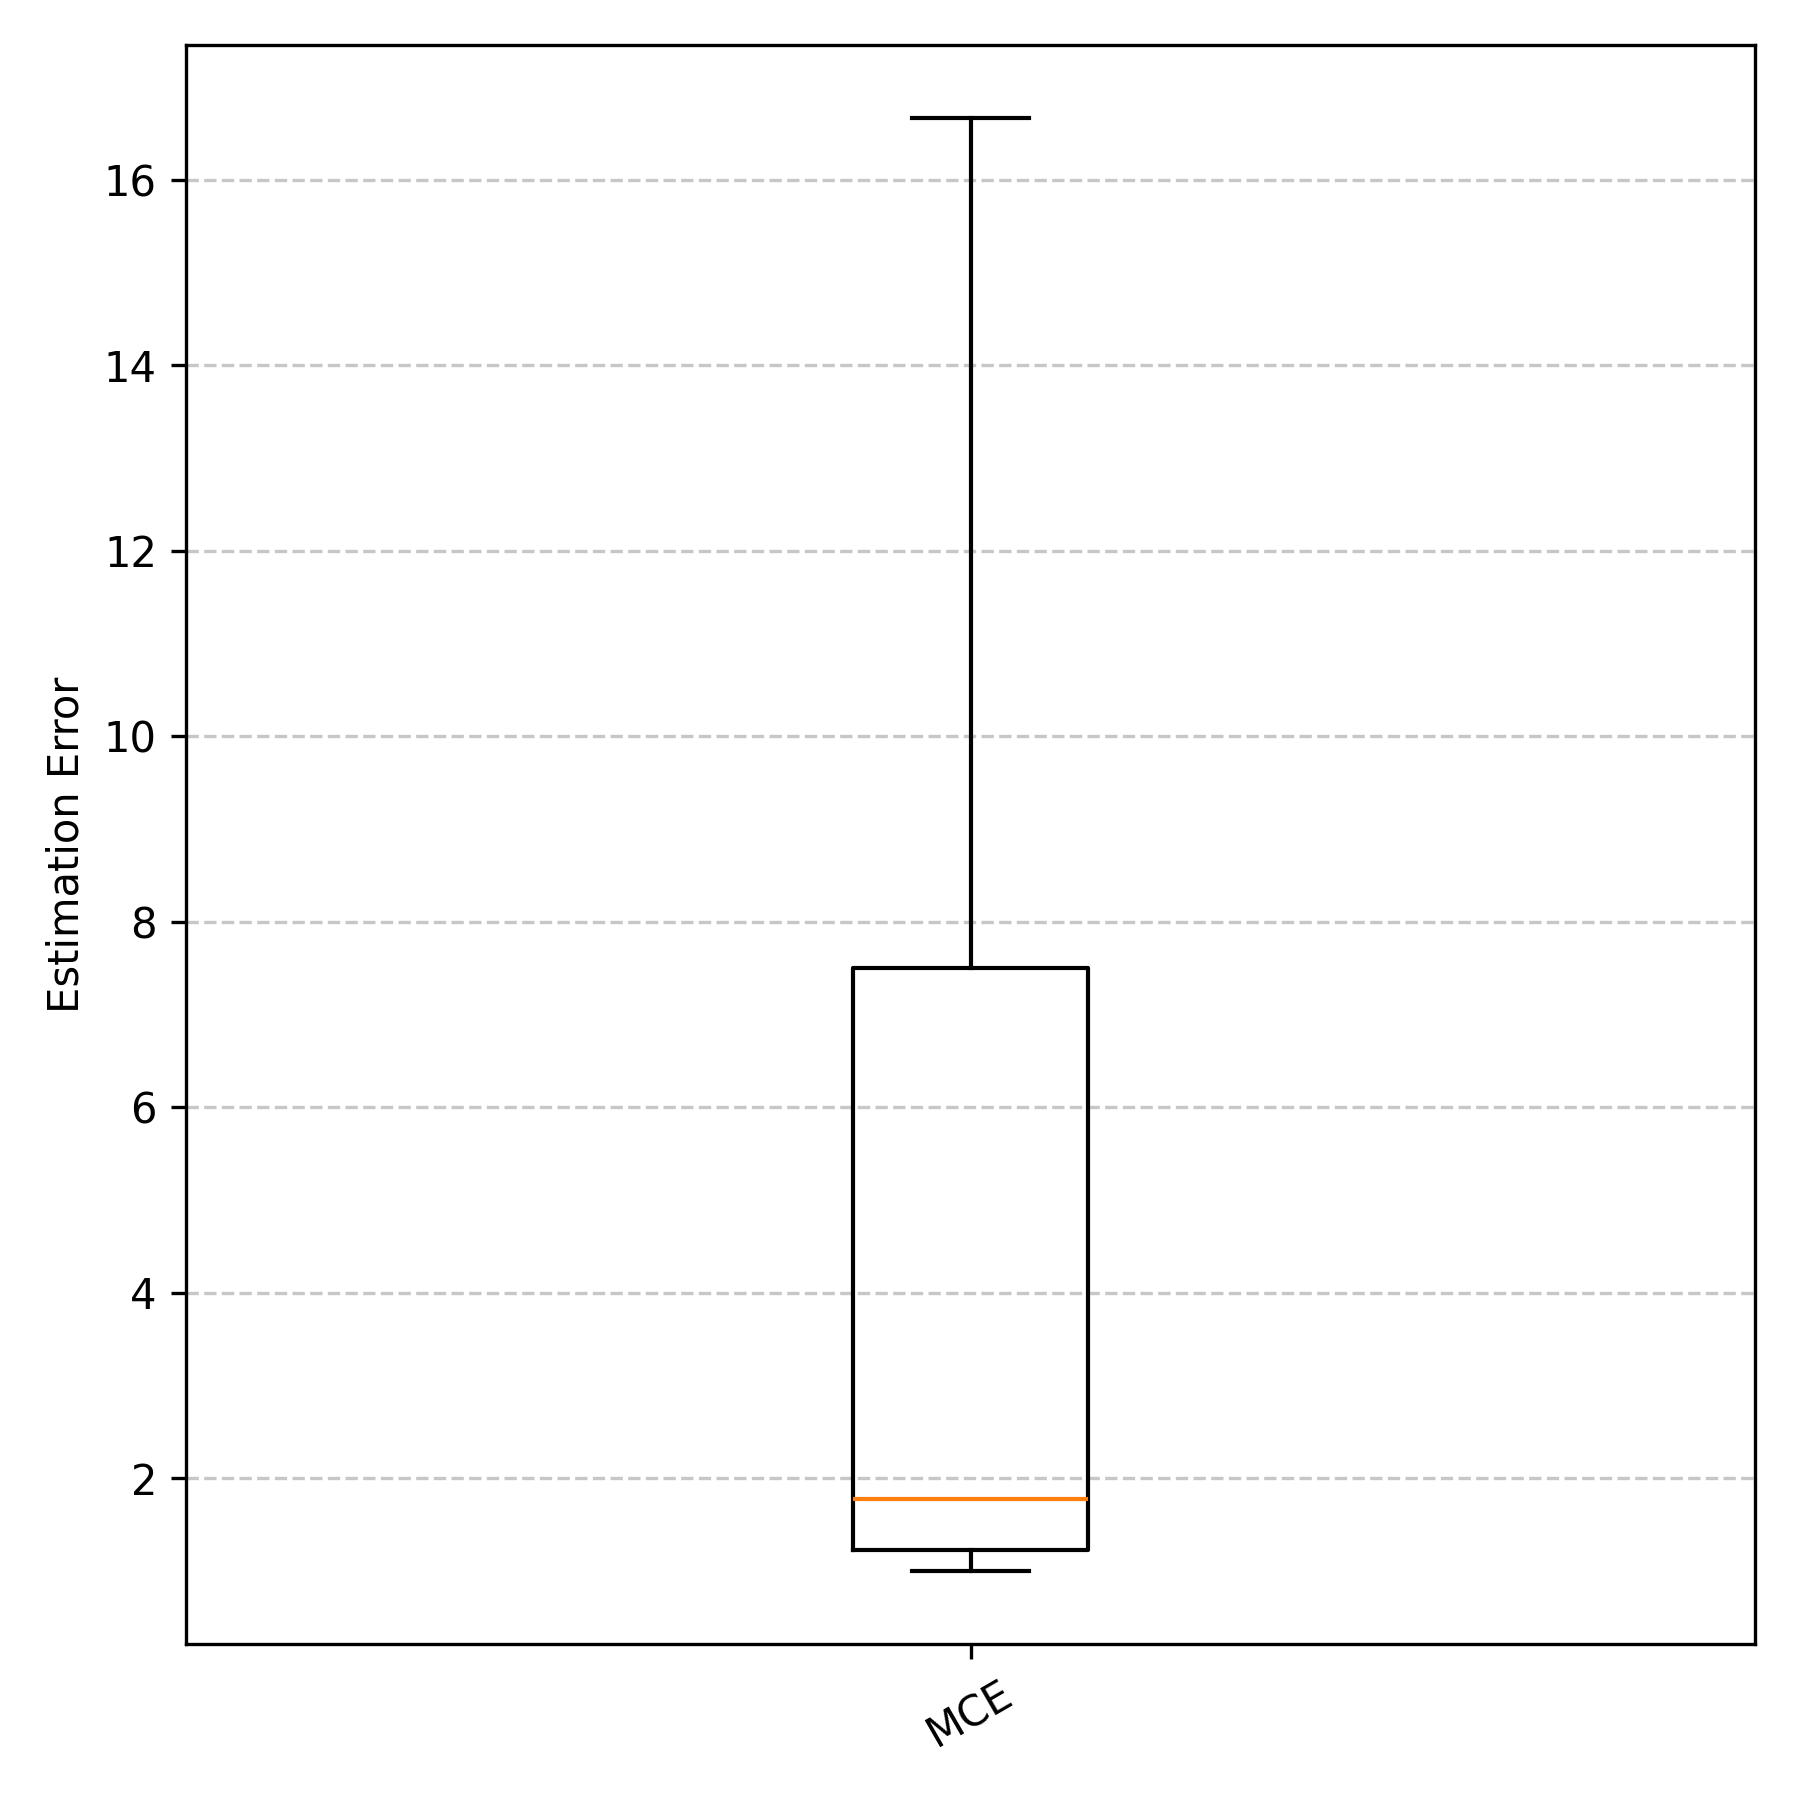
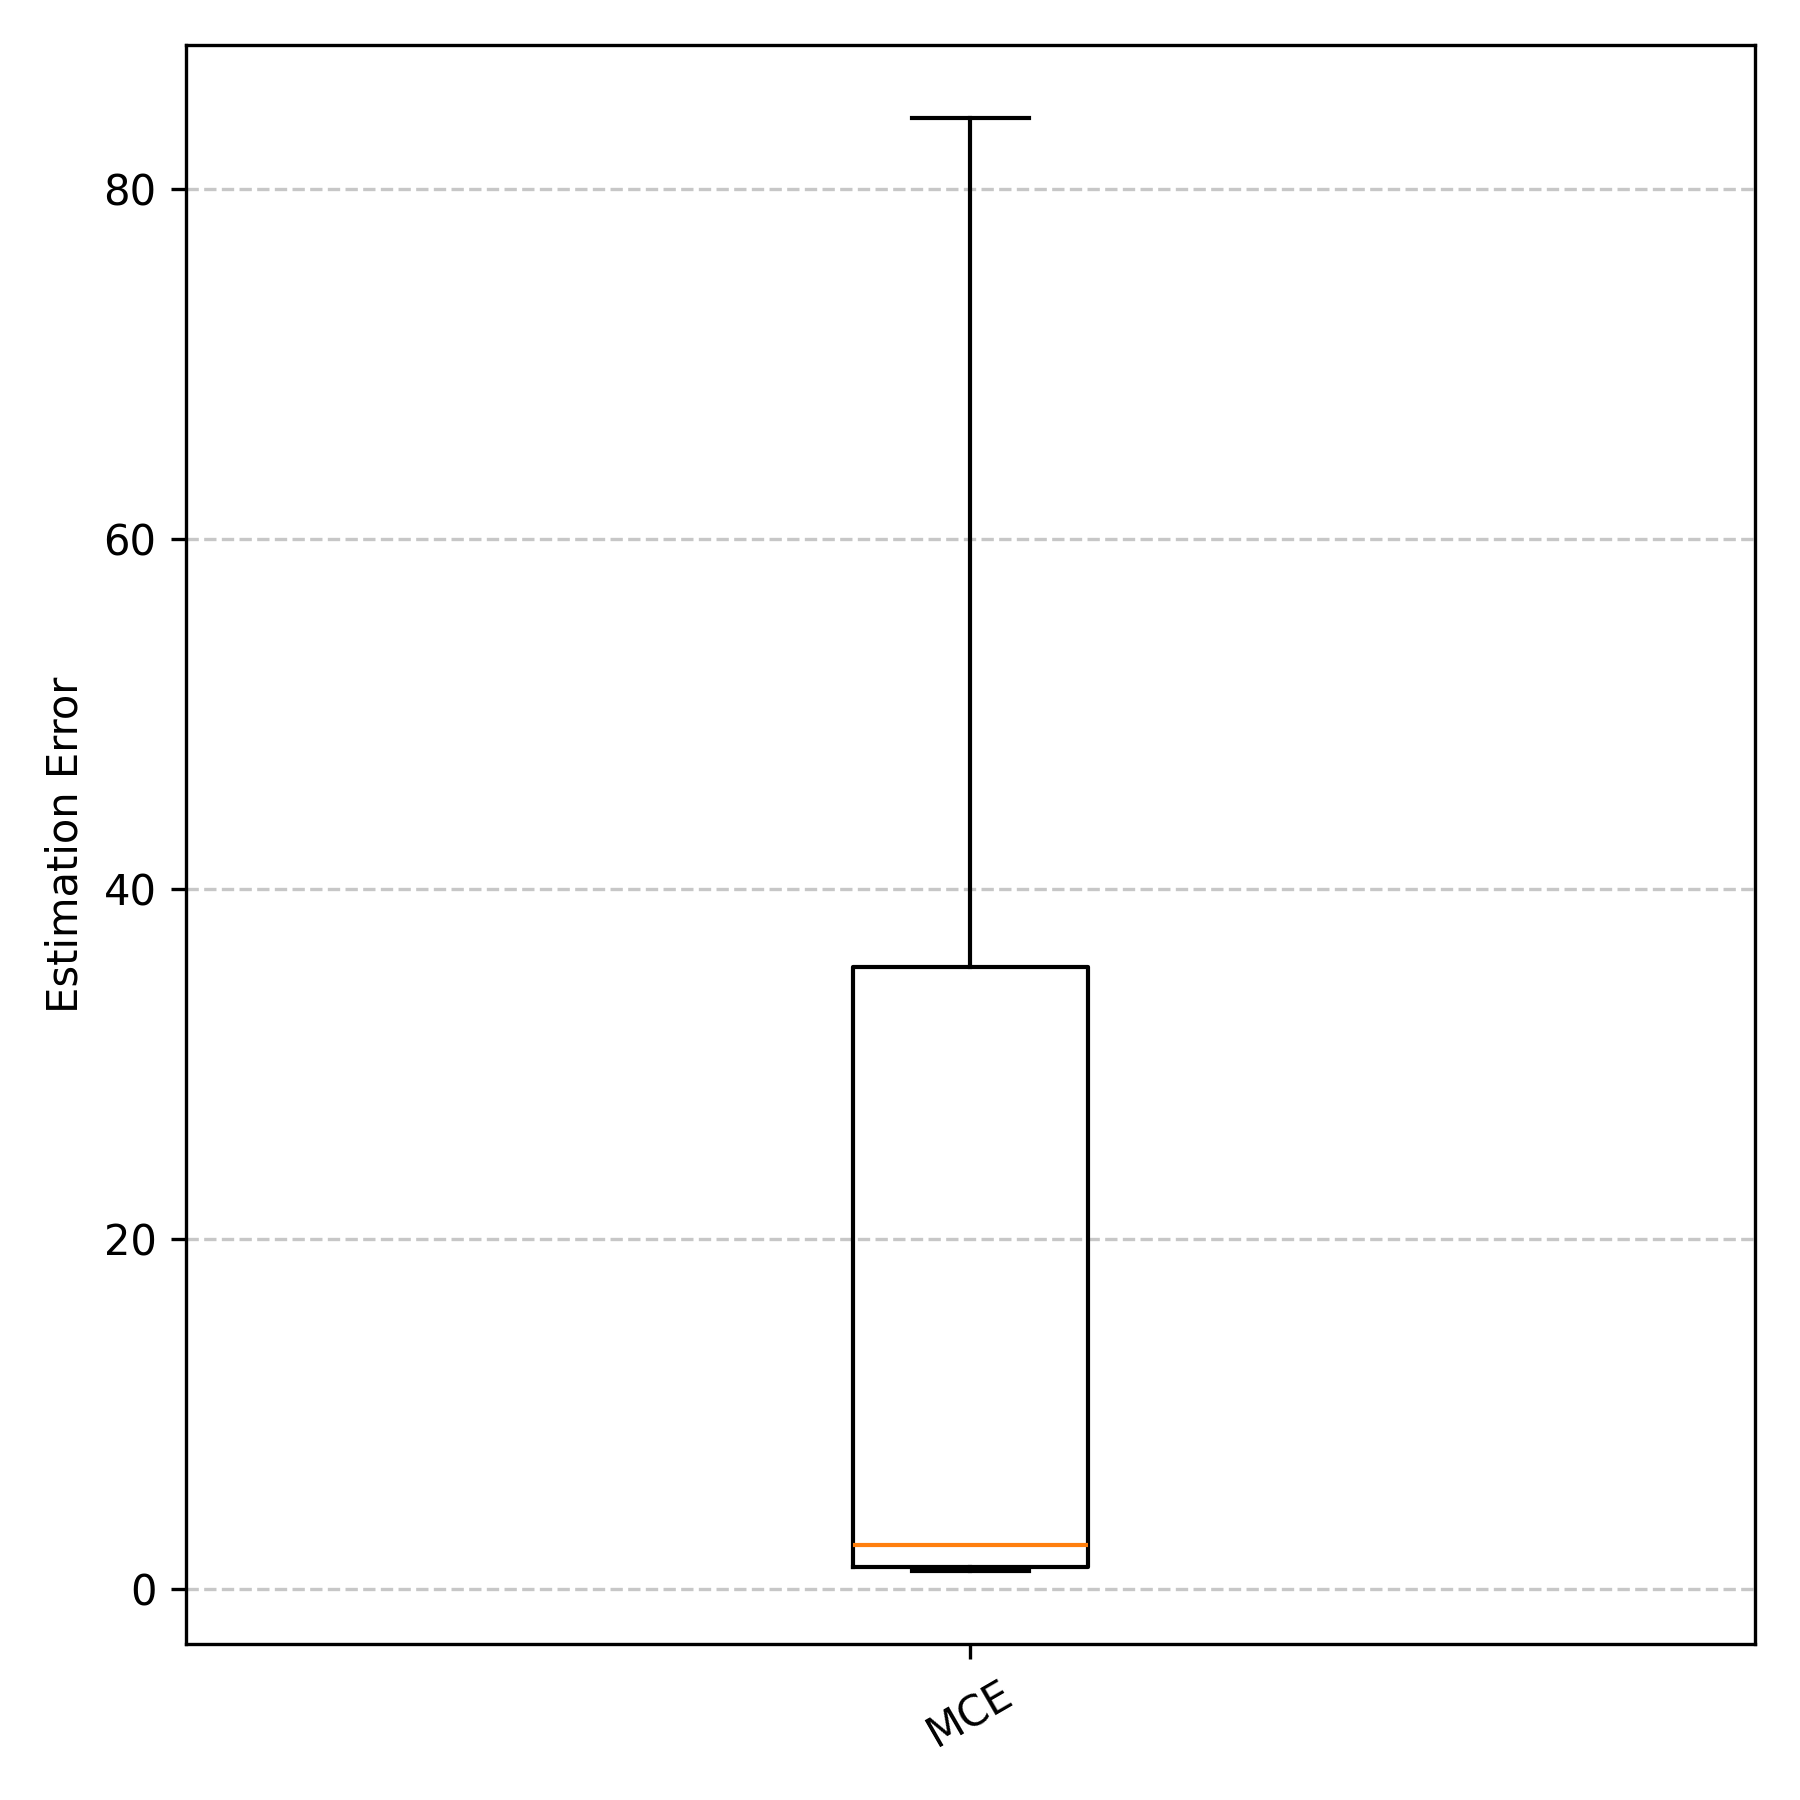
encoding fixed

diff --git a/mce_estimator.py b/mce_estimator.py
@@ -28,8 +28,8 @@ class MCE_Estimator(CardEst):
 
         ops_allowed = ['=', '>=', '<=']
         self.op_code_len = int(np.ceil(np.log2(len(ops_allowed))))
-        self.op_map = {op : tuple([int(bit) for bit in format(i, '08b')][:self.op_code_len]) for i, op in enumerate(ops_allowed)}
-        self.inv_op_map = {tuple([int(bit) for bit in format(i, '08b')][:self.op_code_len]) : op for i, op in enumerate(ops_allowed)}
+        self.op_map = {op : tuple([int(bit) for bit in format(i, '08b')][-self.op_code_len:]) for i, op in enumerate(ops_allowed)}
+        self.inv_op_map = {tuple([int(bit) for bit in format(i, '08b')][-self.op_code_len:]) : op for i, op in enumerate(ops_allowed)}
 
         self.col_map = {}
         self.inv_col_map = {}
@@ -50,13 +50,14 @@ class MCE_Estimator(CardEst):
                 val_map[v] = idx
                 inv_map[idx] = v
 
-        print("Done!")
+        n = len(self.col_map)
+        print(f"Done! Total vector lengths: [{n + n * self.op_code_len + n}]")
 
     def _query_to_vec(self, columns, operators, vals):
         assert all([op in self.op_map or op == 'null' for op in operators])
         n = len(self.col_map)
         v_len = n + n * self.op_code_len + n # selected columns + opcodes per columns + predicate value
-        vec = np.zeros(v_len)
+        vec = np.zeros(v_len, dtype=int)
         for c, op, v in zip(columns, operators, vals):
             col_idx = self.col_map[c]
             vec[col_idx] = 1
@@ -75,20 +76,20 @@ class MCE_Estimator(CardEst):
         cols = [self.inv_col_map[i] for i in col_indexes]
         ops = [self.inv_op_map[tuple(vec[n + self.op_code_len * i:n + self.op_code_len * (i+1)])] for i in col_indexes]
         v_offset = n * (1 + self.op_code_len)
-        vals = [self.inv_val_map[cols[i]][vec[v_offset + i]] for i in col_indexes]
+        vals = [self.inv_val_map[c][int(vec[v_offset + i])] for i, c in zip(col_indexes, cols)]
         
         return cols, ops, vals
 
-    def Query(self, columns, operators, vals):
+    def Query(self, columns, operators, vals, store=True):
         assert len(columns) == len(operators) == len(vals)
         assert self.model is not None, "Must train model first!"
         mask = self._query_to_vec(columns, operators, vals)
 
-        self.OnStart()
+        if store: self.OnStart()
         c = self.model.predict(mask.reshape(1, -1)) # type: ignore
-        self.OnEnd()
+        if store: self.OnEnd()
 
-        return np.maximum(np.round(c[0]), 1) # type: ignore
+        return int(np.maximum(np.round(c[0]), 0)) # type: ignore
 
     def train(self, queries, cardinalities):
         n = len(self.col_map)

diff --git a/mce_comp.py b/mce_comp.py
@@ -221,7 +221,7 @@ def get_train_valid_data(rng, table, table_name, oracle_est, max_rows, seed, num
         cardinalities = []
     
     for i in tqdm(range(total_num)):
-        num_filters = rng.choice(np.arange(1, len(table.columns) + 1))
+        num_filters = rng.choice(np.arange(3, 8))#rng.choice(np.arange(1, len(table.columns) + 1))
         col_idxs, ops, vals = gen_query(table, rng, num_filters=num_filters, nan_check=False)
         cols = np.take(table.columns, col_idxs)
         query = (cols, ops, vals)
@@ -251,16 +251,16 @@ def main():
     recollect_data = False
     retrain_model = True
 
-    num_train = 50000
-    num_valid = 10000
+    num_train = 10000
+    num_valid = 1000
 
-    max_rows = 1000
-    table_name = 'dmv-tiny'
+    max_rows = 100000
+    table_name = 'dmv'
     target_ckpt = glob.glob('./models/dmv-tiny*.pt')[0]
     table, oracle_est, _ = setup_data_model_eval(rng, table_name, target_ckpt, DEVICE, max_rows=max_rows, get_naru=False)
     rows = min(table.cardinality, max_rows) if max_rows is not None else table.cardinality
 
-    linear = True
+    linear = False
     test_data, valid_data = get_train_valid_data(rng, table, table_name, oracle_est, rows, seed, num_train, num_valid, recollect_data=recollect_data)
     path = f'models/mce_{table_name}_rows={rows}_seed={seed}_linear={linear}'
     path += '.pkl' if linear else '.txt'
@@ -278,6 +278,24 @@ def main():
     for i in tqdm(range(num_valid)):
         query, true_card = valid_q[i], valid_c[i]
         execute_on_est(spec_est, true_card, query, table, None)
+    
+    print("Example encoding:")
+    ex_idx = 0
+    cols, ops, vals = valid_q[ex_idx]
+    true_card = valid_c[ex_idx]
+    print("    Query:")
+    for c,op,v in zip(cols, ops, vals):
+        print(f"     {c.name} {str(op)} {v}")
+
+    ex_vec = spec_est._query_to_vec(cols, ops, vals,)
+    print(f"    Encoding: {ex_vec}")
+    inv_cols, inv_ops, inv_vals = spec_est._vec_to_query(ex_vec)
+    print("    Inverse: ")
+    for c,op,v in zip(inv_cols, inv_ops, inv_vals):
+        print(f"     {c.name} {str(op)} {v}")
+        
+    print(f"    Cardinality: {true_card}")
+    print(f"    Prediction: {spec_est.Query(cols, ops, vals, store=False)}")
 
     print_est(spec_est, attribute='errs')
     print_est(spec_est, attribute='query_dur_ms')
